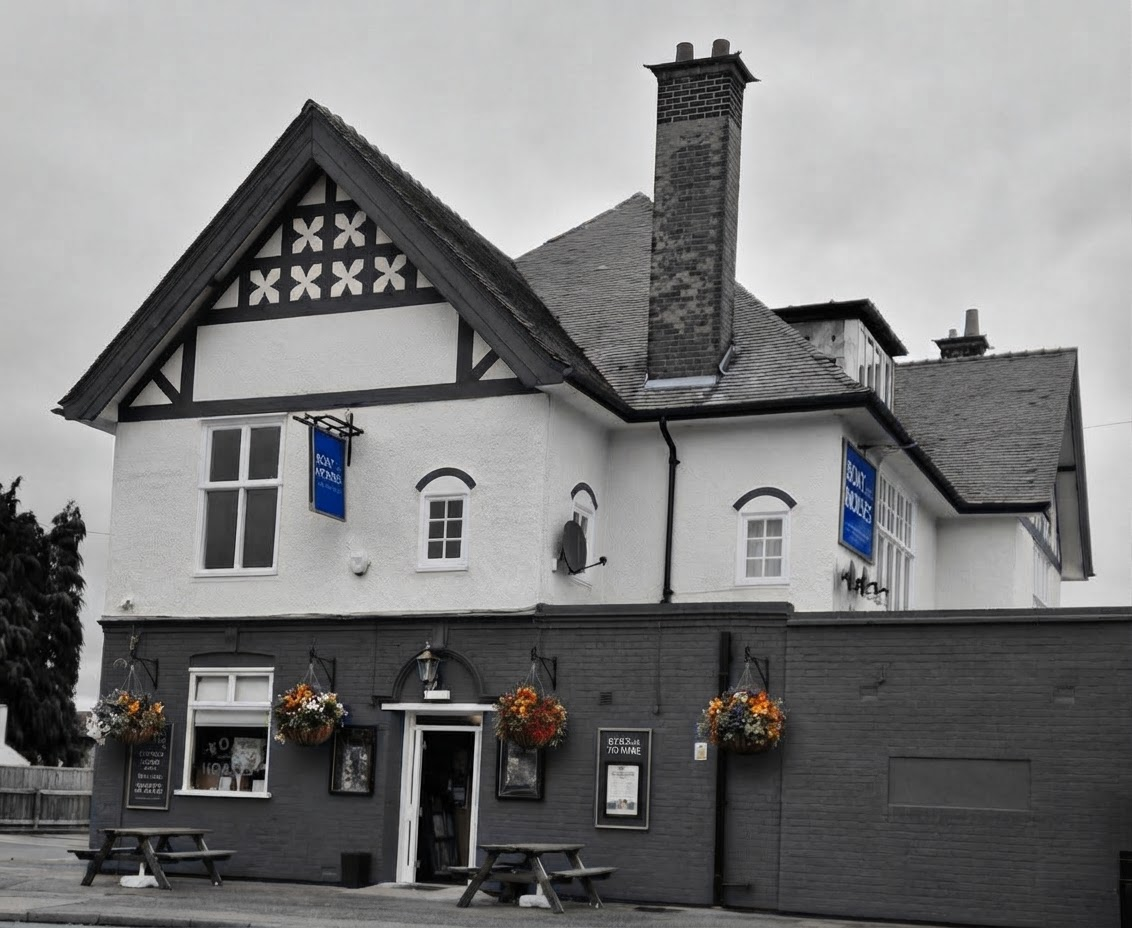
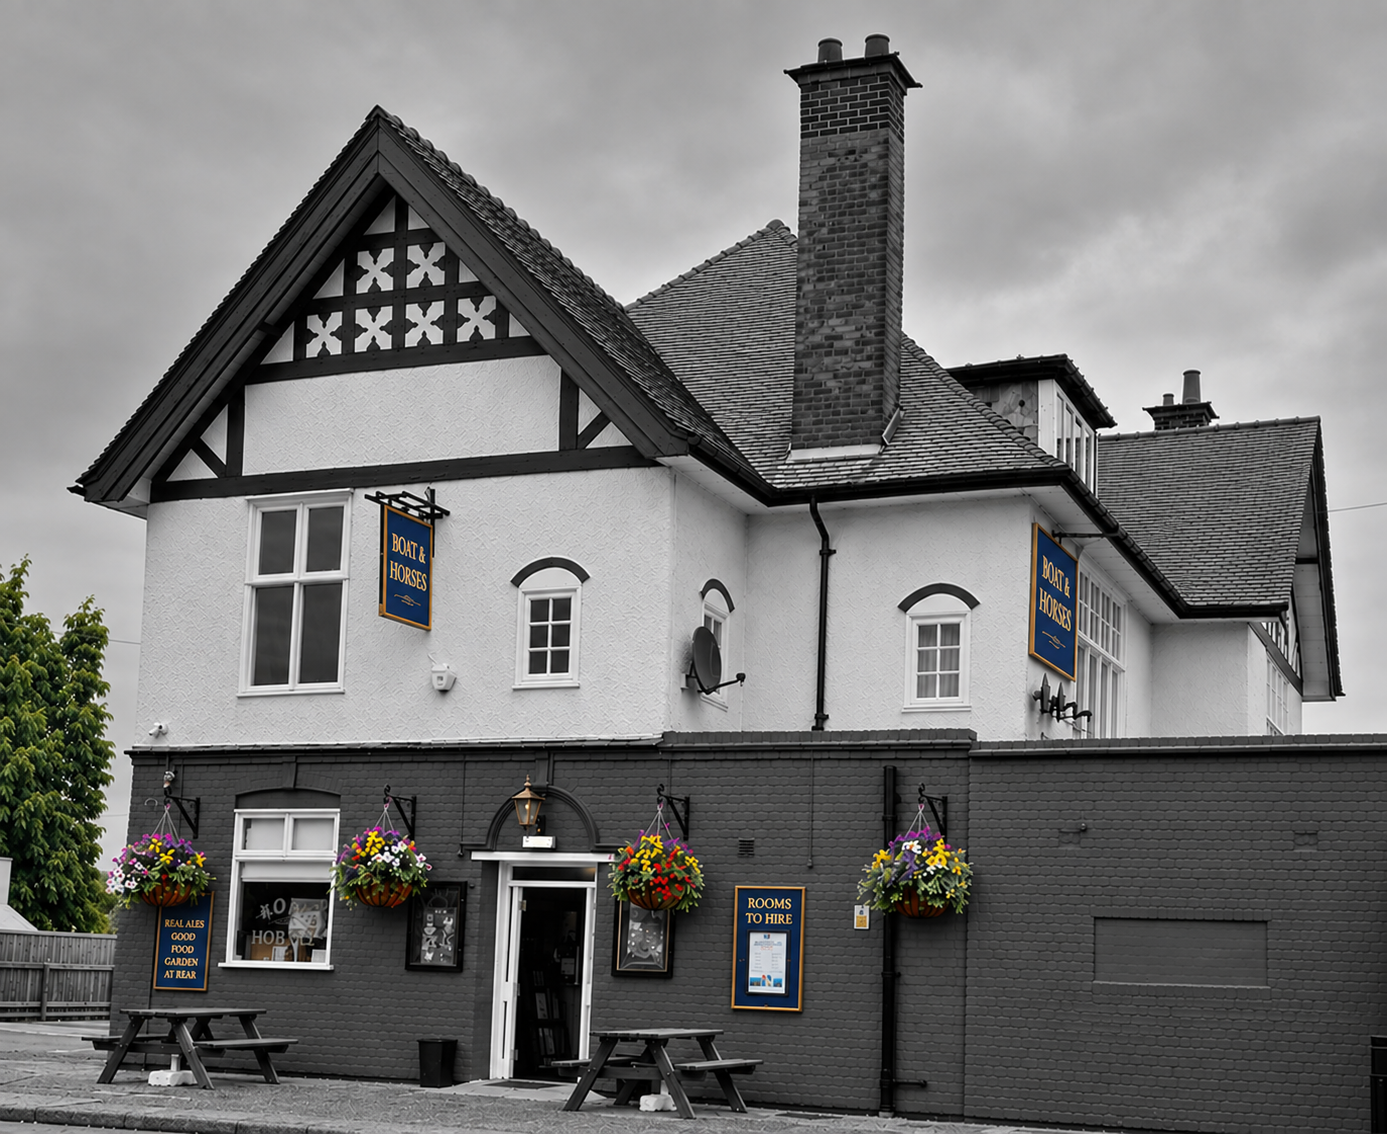
hero section update

diff --git a/src/components/HeroSection.css b/src/components/HeroSection.css
@@ -8,6 +8,12 @@
   justify-content: center;
 }
 
+@media (max-width: 640px) {
+  .hero {
+    height: calc(100svh - 64px);
+  }
+}
+
 .hero-image {
   position: absolute;
   inset: 0;
@@ -15,6 +21,12 @@
   background-repeat: no-repeat;
   background-color: var(--black);
   z-index: 0;
+}
+
+@media (max-width: 640px) {
+  .hero-image {
+    background-position: var(--hero-mobile-focus) !important;
+  }
 }
 
 .hero-overlay {
@@ -39,6 +51,14 @@
   box-shadow: 0 4px 30px rgba(0, 0, 0, 0.12);
 }
 
+@media (max-width: 640px) {
+  .hero-content {
+    max-width: 88vw;
+    padding: 1.5rem 1.5rem;
+    border-radius: 24px;
+  }
+}
+
 .hero-eyebrow {
   text-transform: uppercase;
   letter-spacing: 0.35em;
@@ -48,12 +68,27 @@
   margin: 0 0 1rem;
 }
 
+@media (max-width: 640px) {
+  .hero-eyebrow {
+    font-size: 0.65rem;
+    letter-spacing: 0.25em;
+    margin: 0 0 0.5rem;
+  }
+}
+
 .hero-title {
   font-size: clamp(2.25rem, 5.5vw, 4.25rem);
   font-weight: 600;
   letter-spacing: -0.02em;
   margin: 0 0 1rem;
   line-height: 1.1;
+}
+
+@media (max-width: 640px) {
+  .hero-title {
+    font-size: clamp(1.75rem, 9vw, 2.25rem);
+    margin: 0 0 0.5rem;
+  }
 }
 
 .hero-accent {
@@ -66,6 +101,12 @@
   font-weight: 400;
   color: #d8dbef;
   margin: 0;
+}
+
+@media (max-width: 640px) {
+  .hero-subtitle {
+    font-size: 1.05rem;
+  }
 }
 
 .hero-heart {
@@ -99,13 +140,19 @@
   justify-content: center;
 }
 
+@media (max-width: 640px) {
+  .hero-social {
+    margin-top: 0.85rem;
+  }
+}
+
 .hero-sports-badge {
   position: absolute;
   top: 0.75rem;
   right: 0.75rem;
   z-index: 3;
-  max-width: 70px;   /* bump this up, e.g. 100px */
-  width: 14vw;       /* and this, e.g. 20vw */
+  max-width: 70px;
+  width: 14vw;
   height: auto;
 }
 
@@ -113,6 +160,6 @@
   .hero-sports-badge {
     top: 1rem;
     right: 1rem;
-    max-width: 95px;  /* and this, e.g. 130px */
+    max-width: 95px;
   }
 }

diff --git a/src/components/HeroSection.jsx b/src/components/HeroSection.jsx
@@ -5,8 +5,11 @@ import './HeroSection.css';
 
 // Which part of hero-pic.png to keep in frame when it gets cropped to fill
 // the screen. Nudge the vertical (second) value: lower % shows more roof,
-// higher % shows more of the ground floor/sign.
-const IMAGE_FOCUS = 'center 100%';
+// higher % shows more of the ground floor/sign. MOBILE_IMAGE_FOCUS is used
+// instead on narrow screens (see .hero-image media query in HeroSection.css),
+// since phones crop the image much tighter than desktop.
+const IMAGE_FOCUS = 'center 80%';
+const MOBILE_IMAGE_FOCUS = 'center 50%';
 
 const HeroSection = () => {
   const [opacity, setOpacity] = useState(1);
@@ -30,6 +33,7 @@ const HeroSection = () => {
         style={{
           backgroundImage: "url('/assets/hero-pic.png')",
           backgroundPosition: IMAGE_FOCUS,
+          '--hero-mobile-focus': MOBILE_IMAGE_FOCUS,
           opacity,
         }}
       />
